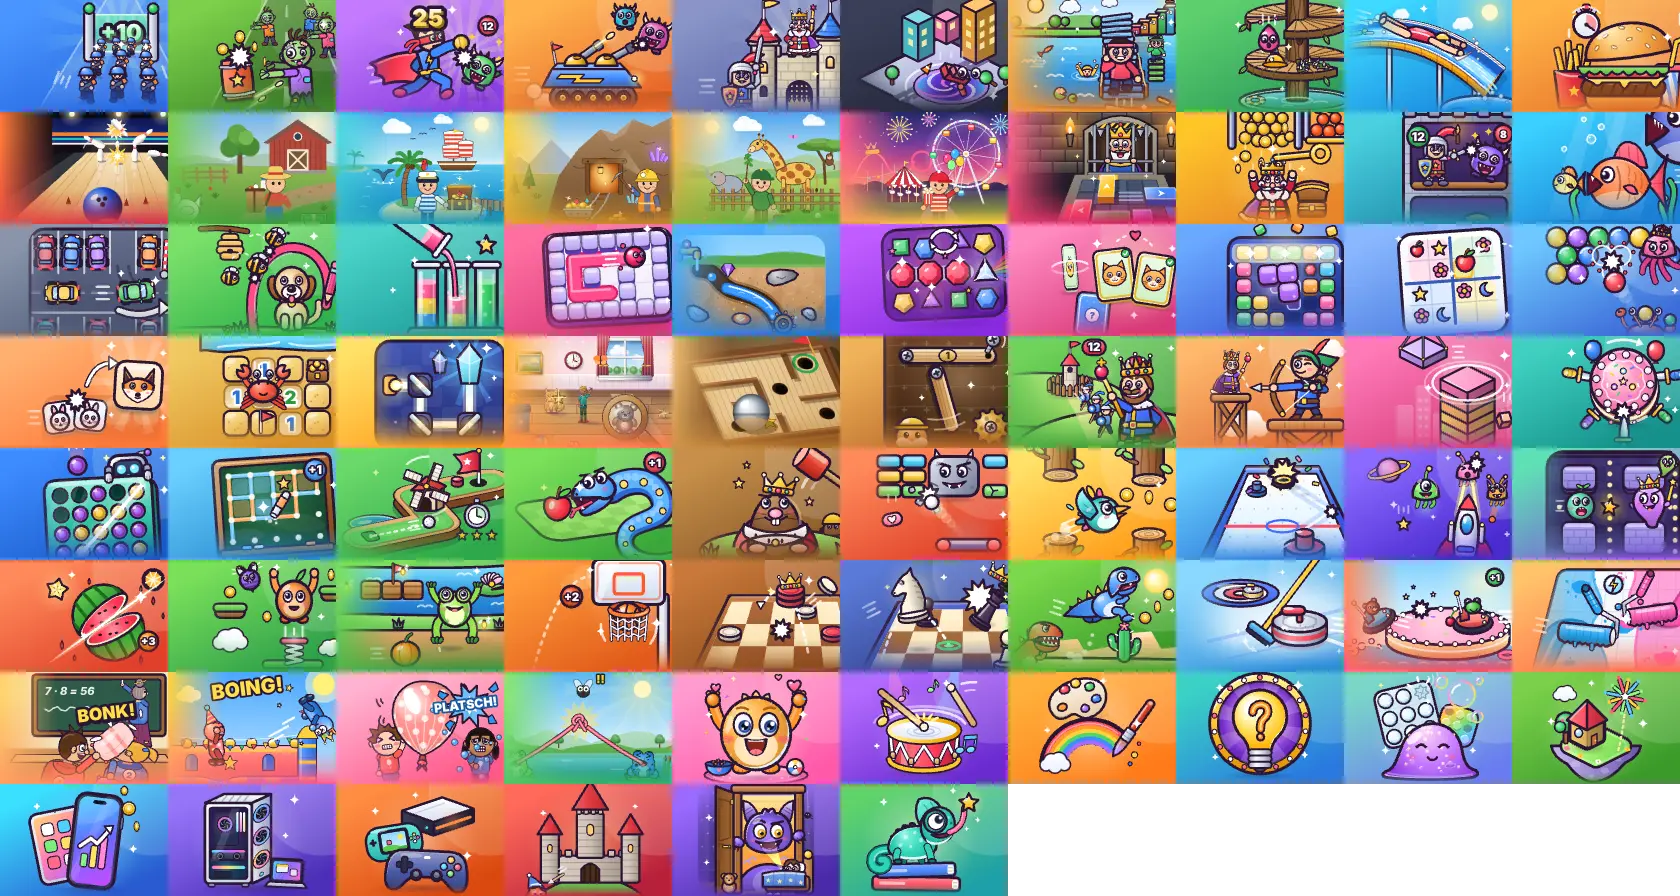
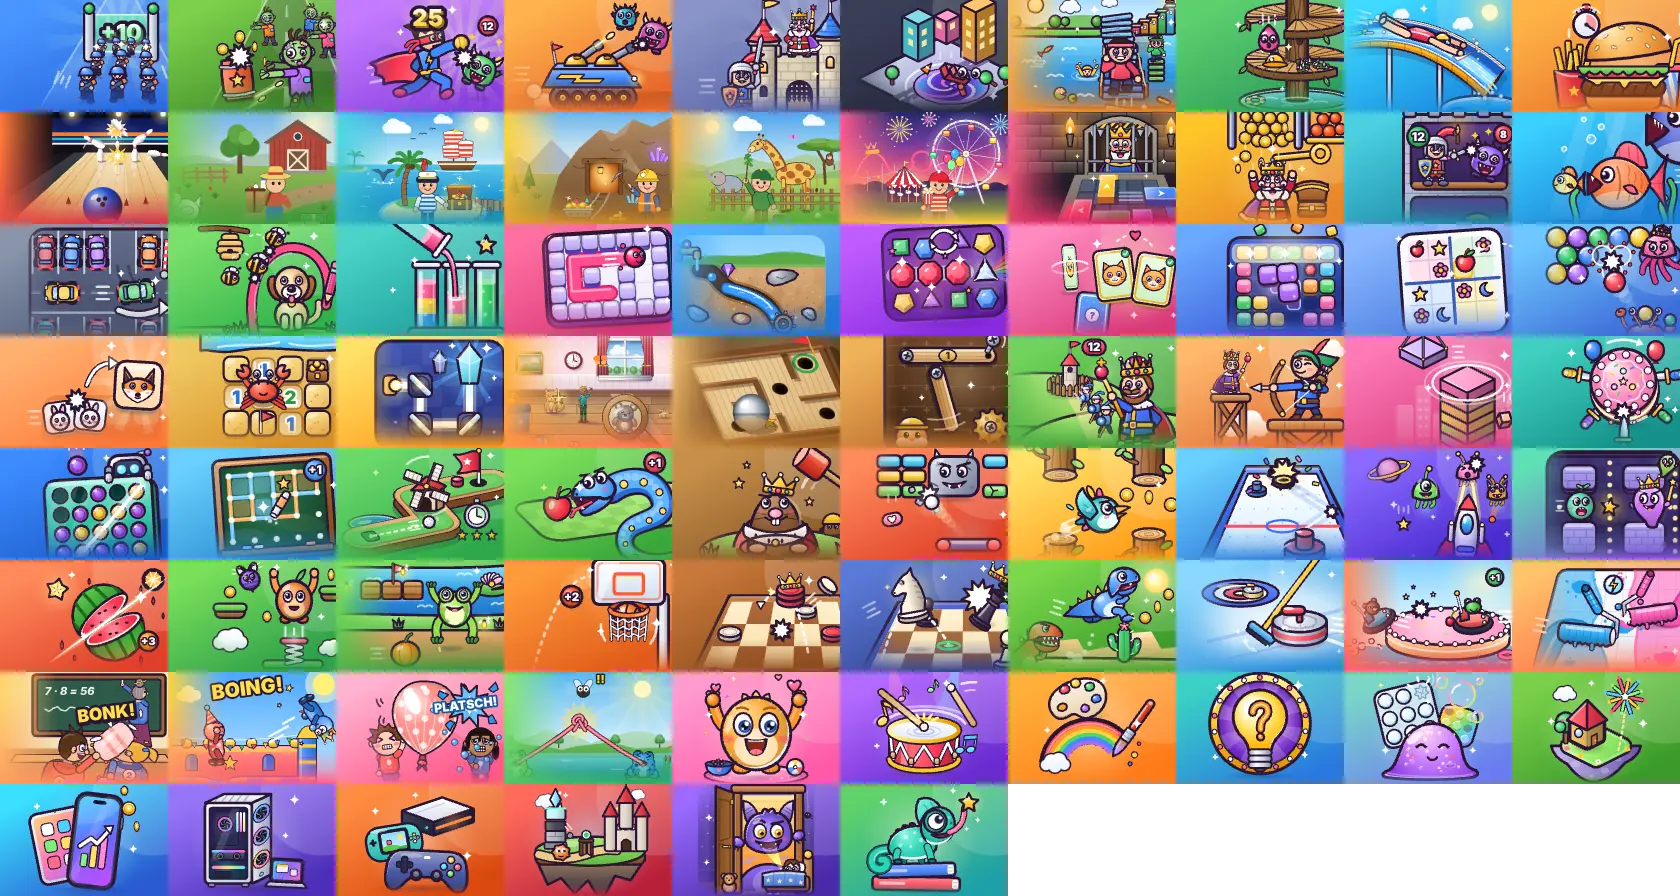
Zockwerk: Insel-Wacht statt Burg-Wächter (VER zmh-15)
Claude-Session: https://claude.ai/code/session_01G3KNfGniXS6at168NqcQ3M

Changed region(s): [[0.3095, 0.875, 0.4024, 1.0]]

diff --git a/zockwerk/daten/beitraege.js b/zockwerk/daten/beitraege.js
@@ -4,6 +4,11 @@
    [Link-Text](#fehler/F-003) springt in der Hilfe, [Link-Text](https://…) öffnet eine Webseite. Englisch darf fehlen (dann Deutsch). */
 window.ZH = window.ZH || {};
 ZH.posts = [
+  { id: 'b26', d: '2026-11-20', k: 'neu', ic: 'castle',
+    de: { t: 'Insel-Wacht: Tower-Defense ganz neu in 3D',
+      x: 'Unser Tower-Defense ist ganz neu und heißt jetzt **Insel-Wacht**.\n\n- Jedes Level ist eine schwebende 3D-Insel – mit einem Finger drehen, mit zwei zoomen\n- Türme aus bis zu 3 Bausteinen stapeln: Feuer + Wind = Feuerwirbel, Eis + Blitz = Hagelsturm und noch 14 weitere Kombis\n- Tore, Zugbrücken und Weichen umschalten und die Monster auf lange Umwege schicken\n- 100 Level in 10 Ländern, 10 Bosse, Werkstatt mit Erfindungen und Endlos-Inseln' },
+    en: { t: 'Isle Guard: tower defense all new in 3D',
+      x: 'Our tower defense game is all new and now called **Isle Guard**.\n\n- Every level is a floating 3D island – rotate with one finger, zoom with two\n- Stack towers from up to 3 blocks: fire + wind = fire whirl, ice + lightning = hailstorm and 14 more combos\n- Switch gates, drawbridges and switches to send the monsters on long detours\n- 100 levels in 10 lands, 10 bosses, a workshop full of inventions and endless islands' } },
   { id: 'b25', d: '2026-11-14', k: 'neu', ic: 'users',
     de: { t: 'Vier neue Spiele zu zweit – zum Lachen!',
       x: 'Ihr wolltet Spiele, bei denen man richtig lachen muss. Hier sind sie – alle vier gegen den Computer oder zu zweit auf einem Handy (Handy quer, Spieler 1 links, Spieler 2 rechts).\n\n- **Heimlich-Hauen:** Zwei Kinder in der letzten Reihe hauen sich heimlich mit Kissen, Gummi-Huhn oder Poolnudel – aber nur, wenn keiner hinschaut! Achte auf die Anzeichen und auf die Petze. 4 Orte: Klassenzimmer, Kinderzimmer bei Nacht, Schulbus und Zeltlager\n- **Hüpfburg-Rangelei:** Zwei wackelige Gummi-Figuren, jeder hat nur einen Knopf. Wer den anderen aus der Burg hüpfen lässt, bekommt den Punkt. 6 Hüpfburgen vom Piratenschiff bis zum Mond\n- **Ballon-Mut:** Pumpt eure Ballons um die Wette – der größere gewinnt. Aber wird er zu groß: PENG, PLATSCH oder PUFF!\n- **Zungen-Knoten:** Zwei Frösche schnappen nach Fliegen. Verknoten sich die Zungen, wird um die Wette getippt – der Verlierer fliegt in den Teich\n\nNeu auf der Startseite: Neben dem Geschenk-Rad könnt ihr jetzt **„Allein“** oder **„2 Spieler“** antippen und seht dann nur diese Spiele.' },
@@ -26,9 +31,9 @@ ZH.posts = [
       x: 'Four more games are real 3D now – just the way you wanted.\n\n- **Hop Up:** floating islands with grass and roots. As you hop higher, you go from the meadow above the clouds and through the evening sky all the way to outer space. 6 new characters, like a dragon and an alien\n- **Stone Smasher:** a tilted game board in the middle of a 3D world, shiny bricks that burst into pieces, and your paddle is a glider with jets. 6 new looks\n- **Ghost Maze:** real walls and wobbly ghosts – and new: **portals**! Run into one and pop out of the other one. The ghosts can’t do that. 6 new Munchies\n- **Color Roller:** a real rolling ball paints the tiles with a splash, and the Paint Room is a real room now. 9 new balls\n- **Hoop Shot:** now aims like a slingshot – pull down and let go\n- **Royal Rescue:** a new picture on the home screen – the king has a face now\n\nThe rules and your levels stay the same.' } },
   { id: 'b21', d: '2026-11-13', k: 'info', ic: 'sparkle',
     de: { t: 'Das Zockwerk ist schöner geworden',
-      x: 'Das Zockwerk hat ein großes Update bekommen:\n\n- **Zockwerk-Artikel:** 10 neue Anleitungen und Tipps – zum Beispiel für Zocki, Spukmix, Burg-Wächter, Baumix und die Simulatoren. Du findest sie hier auf der Startseite und unter [Alle Artikel](#artikel).\n- **Melden mit Bildern:** Bereich und Spiel suchst du jetzt an ihrem Zockmix-Bild aus – alle 56 Spiele in einer Liste zum Wischen, mit Suche.\n- **Fehler aufgeräumt:** Unter [Fehler](#fehler) stehen nur noch Fehler, die es gerade gibt. Behobene verschwinden und stehen zugeklappt unter „Schon behoben“.\n- **Neue Leiste unten:** Sie schwebt jetzt über der Seite.' },
+      x: 'Das Zockwerk hat ein großes Update bekommen:\n\n- **Zockwerk-Artikel:** 10 neue Anleitungen und Tipps – zum Beispiel für Zocki, Spukmix, Insel-Wacht, Baumix und die Simulatoren. Du findest sie hier auf der Startseite und unter [Alle Artikel](#artikel).\n- **Melden mit Bildern:** Bereich und Spiel suchst du jetzt an ihrem Zockmix-Bild aus – alle 56 Spiele in einer Liste zum Wischen, mit Suche.\n- **Fehler aufgeräumt:** Unter [Fehler](#fehler) stehen nur noch Fehler, die es gerade gibt. Behobene verschwinden und stehen zugeklappt unter „Schon behoben“.\n- **Neue Leiste unten:** Sie schwebt jetzt über der Seite.' },
     en: { t: 'Zockwerk got a makeover',
-      x: 'Zockwerk got a big update:\n\n- **Zockwerk articles:** 10 new guides and tips – for example for Zocki, Spukmix, Castle Guard, Baumix and the simulators. You’ll find them right here on the home page and under [All articles](#artikel).\n- **Report with pictures:** You now pick the area and the game by its Zockmix picture – all 56 games in one list you can swipe through, with search.\n- **Bugs cleaned up:** Under [Bugs](#fehler) you only see bugs that still exist. Fixed ones disappear and are tucked away under “Already fixed”.\n- **New bar at the bottom:** It now floats above the page.' } },
+      x: 'Zockwerk got a big update:\n\n- **Zockwerk articles:** 10 new guides and tips – for example for Zocki, Spukmix, Isle Guard, Baumix and the simulators. You’ll find them right here on the home page and under [All articles](#artikel).\n- **Report with pictures:** You now pick the area and the game by its Zockmix picture – all 56 games in one list you can swipe through, with search.\n- **Bugs cleaned up:** Under [Bugs](#fehler) you only see bugs that still exist. Fixed ones disappear and are tucked away under “Already fixed”.\n- **New bar at the bottom:** It now floats above the page.' } },
   { id: 'b20', d: '2026-11-13', k: 'update', ic: 'home',
     de: { t: 'Zocki: Riesen-Update mit viel mehr Details',
       x: 'Zockis Zuhause und die Stadt sind jetzt viel detailreicher und echter gemalt.\n\n- **Zimmer:** Holzböden mit Maserung, glänzende Fliesen, Vorhänge in Falten, Lampen an der Decke, weiche Schatten und Fenster mit Blick auf Berge und Häuschen\n- **Küche:** Backofen, Herd, Spüle und eine Holz-Arbeitsplatte – und ein Kinderbild am Kühlschrank\n- **Bad und Schlafzimmer:** Spiegel mit Lampen, Waschbecken, Handtuch; gemütliches Bett mit gepolstertem Kopfteil und Hausschuhen\n- **Garten:** grüne Hügel mit Wäldern, ein Dorf, Felder und ein See, ein großer Baum und ein Haus mit Ziegeldach – in jeder Jahreszeit\n- **Stadt:** Häuser aus Ziegeln und Holz mit Blumenkästen, eine Kirche in der Ferne, Pflaster, Fahrräder und ein Obststand\n- **Supermarkt:** glänzender Boden, beleuchtete Regale und eine neue Kasse – sogar das Geld sieht neu aus' },
@@ -115,10 +120,10 @@ ZH.posts = [
     en: { t: 'Welcome to Zockwerk!',
       x: 'Zockwerk is the workshop of Zockmix. Zockmix itself collects **no data** and doesn’t even use the internet. That’s why this page exists: here you can see what’s new, which bugs we already know about and what we’re building right now.\n\n- **Bugs:** known bugs and whether they’re fixed yet\n- **Report:** send us a bug, an idea or a question\n- **Ideas:** what’s planned and what’s done\n- **Helpers:** helpers earn points and climb the ranks\n\nYou send your report as a normal e-mail – and you see exactly what’s in it first.' } },
   { id: 'b3', d: '2026-11-03', k: 'neu', ic: 'castle',
-    de: { t: 'Neu: Burg-Wächter',
-      x: 'Beschütze deine Burg! Baue Türme an den Weg, schicke Helden los und halte alle Monster-Wellen auf.\n\n- 50 Karten in fünf Ländern\n- Helden mit Superkraft\n- drei Schwierigkeiten: leicht, normal und profi\n- Endlos-Modus, Erfolge und eine Schatzkammer' },
-    en: { t: 'New: Castle Guard',
-      x: 'Protect your castle! Build towers along the path, send out heroes and stop every wave of monsters.\n\n- 50 maps in five lands\n- heroes with super powers\n- three difficulties: easy, normal and pro\n- endless mode, achievements and a treasure room' } },
+    de: { t: 'Neu: ein großes Tower-Defense',
+      x: 'Unter „Mehr Spaß“ gibt es jetzt ein eigenes Tower-Defense im Querformat. Seit dem 20.11.2026 heißt es **Insel-Wacht** und ist ganz neu in 3D.' },
+    en: { t: 'New: a big tower defense game',
+      x: 'Under “More Fun” there is now a tower defense game in landscape mode. Since November 20, 2026 it is called **Isle Guard** and is all new in 3D.' } },
   { id: 'b2', d: '2026-11-02', k: 'update', ic: 'home',
     de: { t: 'Baumix ist jetzt ein Haus- und Stadt-Baukasten',
       x: 'Baue Häuser mit Möbeln, ganze Straßen und sogar eine Großstadt – und lauf danach selbst durch deine Welt.\n\n- Stockwerke mit Treppen und ein Glas-Aufzug\n- Autos fahren, Taxi rufen, Wetter und Tageszeit\n- ein Handy und ein Computer im Spiel – mit eigenen Mini-Spielen' },

diff --git a/zockwerk/daten/artikel.js b/zockwerk/daten/artikel.js
@@ -20,11 +20,11 @@ ZH.guides = [
       x: 'Eine Nacht dauert **5 Minuten**. Wer dann noch nicht erwischt ist, gewinnt. Mit diesen Tipps schaffst du es:\n\n- **Schnell sein:** Am Anfang hast du **30 Sekunden**. Lauf in ein freies Zimmer und leg dich ins Bett – ein gelber Pfeil zeigt dir das nächste freie Bett.\n- **Zuerst die Tür:** Das Bett bringt jede Sekunde Gold. Ein besseres Bett braucht aber erst eine stärkere Tür – also Tür und Bett immer abwechselnd verbessern.\n- **Strom machen:** Ein **Hamsterrad** macht Strom. Damit kaufst du Brunnen (die bringen extra Gold), den Reparatur-Robo und Fallen.\n- **Verteidigen:** Tippe auf ein freies Feld in deinem Zimmer und bau einen **Schleuder-Turm**. Der schießt auf das Monster.\n- **Tür reparieren:** Der Werkzeug-Knopf unten rechts flickt die Tür – danach braucht er eine kleine Pause.\n\nUnd wenn es mal nicht klappt: Wer erwischt wird, wird nur ein kleines Gespenst. Nächste Nacht klappt es bestimmt!' },
     en: { t: 'Spukmix: how to make it to the morning', s: 'Get to bed fast, make your door strong – and then earn lots of gold.',
       x: 'A night lasts **5 minutes**. If you haven’t been caught by then, you win. These tips will help:\n\n- **Be quick:** At the start you have **30 seconds**. Run into a free room and get into bed – a yellow arrow shows you the nearest free bed.\n- **Door first:** Your bed earns gold every second. But a better bed needs a stronger door first – so keep upgrading the door and the bed in turns.\n- **Make power:** A **hamster wheel** makes power. Use it to buy fountains (they bring extra gold), the repair robot and traps.\n- **Defend:** Tap a free tile in your room and build a **slingshot tower**. It shoots at the monster.\n- **Fix the door:** The tool button at the bottom right repairs the door – then it needs a short break.\n\nAnd if it doesn’t work out: whoever gets caught just turns into a little ghost. You’ll make it next night!' } },
-  { id: 'a4', d: '2026-11-13', k: 'tipp', a: 'burg',
-    de: { t: 'Burg-Wächter: Tipps für junge Wächter', s: 'Welcher Turm hilft gegen wen – und wie du die Welle früher rufst.',
-      x: 'Die Monster laufen den Weg entlang – deine Türme müssen sie aufhalten, bevor sie durchkommen.\n\n- **Bauen:** Tippe auf einen Bauplatz. Im Ring-Menü zeigt **1× tippen** die Infos und die Reichweite, **2× tippen** kauft den Turm.\n- **Der richtige Turm:** Der **Bogenturm** ist schnell, die **Kaserne** schickt 3 Soldaten, die Gegner festhalten, der **Zauberturm** hilft gegen Rüstung und der **Kanonenturm** gegen ganze Gruppen.\n- **Der Held:** Tippe deinen Helden an und dann auf die Karte – er läuft dorthin. Seine Superkraft hat einen eigenen Knopf.\n- **Früher starten:** Tippe 2× auf die Wellen-Flagge, dann kommt die nächste Welle früher – dafür gibt es Bonus-Gold.\n- **Sterne nutzen:** Mit deinen Sternen kaufst du dauerhafte Verbesserungen für Türme und Zauber.\n\nZu schwer? Im Level-Fenster kannst du für jedes Level **Leicht** wählen.' },
-    en: { t: 'Castle Guard: tips for young guards', s: 'Which tower helps against whom – and how to call the wave early.',
-      x: 'The monsters walk along the path – your towers have to stop them before they get through.\n\n- **Building:** Tap a building spot. In the ring menu, **tap once** to see info and range, **tap twice** to buy the tower.\n- **The right tower:** The **archer tower** is fast, the **barracks** send 3 soldiers who hold enemies back, the **wizard tower** helps against armor and the **cannon tower** against whole groups.\n- **Your hero:** Tap your hero, then tap the map – the hero walks there. The superpower has its own button.\n- **Start early:** Tap the wave flag twice to bring the next wave sooner – you get bonus gold for it.\n- **Use your stars:** With your stars you buy lasting upgrades for towers and spells.\n\nToo hard? In the level window you can pick **Easy** for every level.' } },
+  { id: 'a4', d: '2026-11-20', k: 'tipp', a: 'burg',
+    de: { t: 'Insel-Wacht: Tipps für junge Wächter', s: 'Welche Bausteine du stapelst – und wie du die Monster auf Umwege schickst.',
+      x: 'Die Monster wollen über die Wege zu deiner Burg. Deine Türme und deine Tore müssen sie aufhalten.\n\n- **Bauen:** Wähle unten einen Baustein und tippe auf ein freies Feld. Tippst du noch einmal auf den Turm, kommt ein zweiter und dritter Baustein obendrauf – höher heißt mehr Reichweite und Kraft.\n- **Kombis:** Zwei verschiedene Bausteine ergeben eine Kombi, z. B. **Feuer + Wind = Feuerwirbel** oder **Eis + Blitz = Hagelsturm**. Drei gleiche ergeben einen MEGA-Turm. Alle Kombis stehen im **Kombi-Buch**.\n- **Umwege:** Tippe auf die Schilder an Toren, Zugbrücken und Weichen. Dann laufen die Monster einen längeren Weg an deinen Türmen vorbei. Ein Weg bleibt immer offen.\n- **Aufpassen:** Ramm-Böcke brechen Tore auf, Fliegende ignorieren die Wege – dagegen helfen Wind und Blitz.\n- **Die Burg hilft:** Ziele mit der **Burg-Kanone**, rufe die **Gewitter-Wolke** oder den **Hühner-Alarm**.\n- **Werkstatt:** Für Wellen und Bosse gibt es Zahnräder. Damit baust du Erfindungen, die alle Türme stärker machen – gerade in den späten Leveln wichtig.' },
+    en: { t: 'Isle Guard: tips for young guards', s: 'Which blocks to stack – and how to send the monsters on detours.',
+      x: 'The monsters want to reach your castle along the paths. Your towers and gates have to stop them.\n\n- **Building:** Pick a block at the bottom and tap a free tile. Tap the tower again to put a second and third block on top – taller means more range and power.\n- **Combos:** Two different blocks make a combo, like **fire + wind = fire whirl** or **ice + lightning = hailstorm**. Three of the same make a MEGA tower. All combos are in the **Combo Book**.\n- **Detours:** Tap the signs on gates, drawbridges and switches. The monsters then take a longer way past your towers. One path always stays open.\n- **Watch out:** Battering rams break gates open, flyers ignore the paths – wind and lightning help against them.\n- **Your castle helps:** Aim the **castle cannon**, call the **storm cloud** or the **chicken alarm**.\n- **Workshop:** Waves and bosses give you gears. Use them to build inventions that make all towers stronger – especially important in later levels.' } },
   { id: 'a5', d: '2026-11-13', k: 'info', a: 'baumix',
     de: { t: 'Baumix: Bau dein eigenes Haus – und lauf hindurch', s: 'Welt aussuchen, bauen, einrichten und dann selbst durch dein Haus laufen.',
       x: 'In Baumix bist du Baumeister. Du baust Häuser, Höfe und ganze Städte – und läufst danach selbst hindurch.\n\n- **Welt aussuchen:** Leere Wiese (Klein, Groß oder Riesig), Bauernhof, Stadt, Großstadt, Landschaft, Insel oder Bergdorf. Auf der leeren Wiese baust du alles selbst.\n- **Bauen:** Wände, Böden, Türen, Fenster, Dächer und über 110 Möbel und Dinge – von der Küche bis zum Spielplatz.\n- **Ich-Ansicht:** Geh durch dein Haus! Türen auf und zu, Licht an und aus, hinsetzen, ins Bett legen, Fernseher, Klavier, Schaukel, Trampolin und Tiere streicheln.\n- **Hochhäuser:** In der Großstadt fährst du mit dem Aufzug aufs Dach.\n\nBaumix spielst du im Querformat. Es gibt kein Kämpfen und kein Internet – nur Bauen und Entdecken.' },

diff --git a/zockwerk/js/spiele.js b/zockwerk/js/spiele.js
@@ -1,5 +1,5 @@
 /* Zockwerk – Spiele und Bereiche aus Zockmix mit ihrem Platz im Bild img/kacheln.webp (10 Spalten, 8 Zeilen).
-   NICHT VON HAND ÄNDERN – wird von tools/kacheln.js erzeugt (Stand 2026-11-19, 64 Spiele).
+   NICHT VON HAND ÄNDERN – wird von tools/kacheln.js erzeugt (Stand 2026-11-20, 64 Spiele).
    games: [id, Deutsch, Englisch, Rubrik (action | knobel | strat), Bild-Nr.]   apps: [id, Deutsch, Englisch, Bild-Nr.] */
 window.ZHG = { cols: 10, rows: 8,
   games: [
@@ -78,7 +78,7 @@ window.ZHG = { cols: 10, rows: 8,
     ['handysim', 'Handy-Simulator', 'Phone Simulator', 70],
     ['pcsim', 'PC-Simulator', 'PC Simulator', 71],
     ['konsolensim', 'Konsolen-Simulator', 'Console Simulator', 72],
-    ['burg', 'Burg-Wächter', 'Castle Guard', 73],
+    ['burg', 'Insel-Wacht', 'Isle Guard', 73],
     ['spukmix', 'Spukmix', 'Spukmix', 74],
     ['lernmix', 'Lernmix', 'Lernmix', 75]
   ]

diff --git a/zockwerk/js/app.js b/zockwerk/js/app.js
@@ -33,7 +33,7 @@
   // Bereiche: [Schlüssel, Deutsch, Englisch, Farbe]
   const AREAS = [
     ['spiele', 'Spiele', 'Games', '#ff8a4d'], ['zocki', 'Zocki', 'Zocki', '#ff9fd0'], ['chillmix', 'Chillmix', 'Chillmix', '#5fe0a0'],
-    ['spukmix', 'Spukmix', 'Spukmix', '#b894ff'], ['baumix', 'Baumix', 'Baumix', '#ffc24d'], ['burg', 'Burg-Wächter', 'Castle Guard', '#d8ad72'],
+    ['spukmix', 'Spukmix', 'Spukmix', '#b894ff'], ['baumix', 'Baumix', 'Baumix', '#ffc24d'], ['burg', 'Insel-Wacht', 'Isle Guard', '#d8ad72'],
     ['beatmix', 'Beatmix', 'Beatmix', '#ff6fae'], ['malmix', 'Malmix', 'Malmix', '#ffe066'], ['quizmix', 'Quizmix', 'Quizmix', '#5fd8ff'],
     ['lernmix', 'Lernmix', 'Lernmix', '#4fe3c1'], ['sim', 'Simulatoren', 'Simulators', '#86a8ff'],
     ['app', 'Startseite & Einstellungen', 'Home & settings', '#b7c2e8'], ['sonst', 'Etwas anderes', 'Something else', '#a3adcc']

diff --git a/zockwerk/sw.js b/zockwerk/sw.js
@@ -3,7 +3,7 @@
    Wichtig (13.11.2026): Das Netz wird mit cache: 'no-cache' gefragt – sonst liefert der Browser bis zu 10 Minuten lang die alte Datei
    aus seinem eigenen Zwischenspeicher (GitHub Pages erlaubt 10 Minuten), und die als App installierte Seite zeigt noch die alte Fassung.
    Der Server antwortet bei unveränderten Dateien nur kurz „unverändert“ (304), das kostet kaum Daten. */
-const VER = 'zmh-14';
+const VER = 'zmh-15';
 const FILES = ['./', 'index.html', 'css/app.css', 'js/icons.js', 'js/code.js', 'js/spiele.js', 'js/app.js', 'daten/beitraege.js', 'daten/fehler.js', 'daten/ideen.js',
   'daten/fragen.js', 'daten/helfer.js', 'daten/artikel.js', 'manifest.webmanifest', 'img/kacheln.webp', 'img/icon-192.png', 'img/icon-512.png'];
 self.addEventListener('install', e => {
